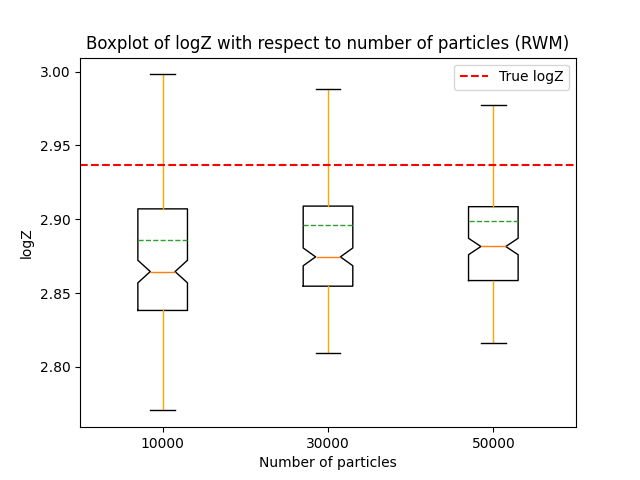
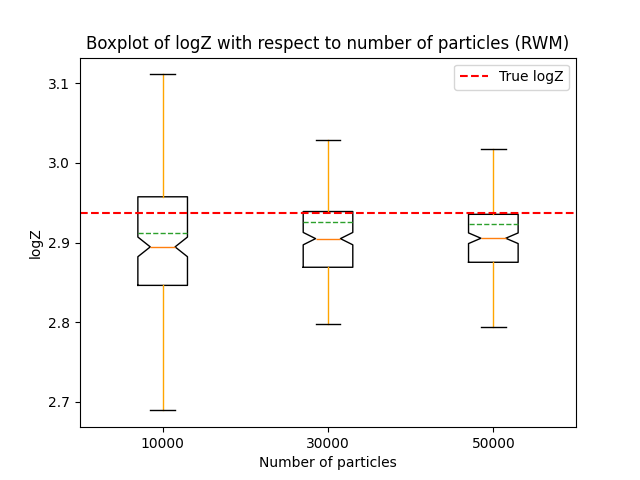
new test

diff --git a/notebooks/sequential_mc/smc_analysis.py b/notebooks/sequential_mc/smc_analysis.py
@@ -67,10 +67,11 @@ def smc_test(log_gamma_0, log_gamma_T, num_particles_arr, key, method, target):
     # plot boxplot of logZ with confidence interval and mean
     plt.figure()
     positions = np.arange(len(num_particles_arr))
+    diff = jnp.abs(data1["logZ"][-1] - (log_gamma_T._log_Z - log_gamma_0._log_Z))
     plt.boxplot(data1["logZ"], positions=positions, showmeans=True, meanline=True, notch=True, showfliers=False, whiskerprops=dict(color='orange'))
 
     # compare to logZ of funnel distribution
-    plt.axhline(y=log_gamma_T._log_Z - log_gamma_0._log_Z, color='r', linestyle='--', label='True logZ')
+    plt.axhline(y=log_gamma_T._log_Z - log_gamma_0._log_Z, color='r', linestyle='--', label=f'True logZ (difference = {diff:.2f})')
 
     plt.xticks(positions, num_particles_arr)
     plt.xlabel('Number of particles')
@@ -159,7 +160,7 @@ log_var_0 = jnp.log(sigma_0**2)
 # log_gamma_0 = IsotropicGauss(mu=mu_0, log_var=log_var_0)
 # ------------------ Randomly select params for 5 components of mixed gaussian --------------------------
 key, key1, key2, key3 = jr.split(key,4)
-K = 20
+K = 40
 mu = jax.random.normal(key1, shape=(K, dim))*10-10
 dist_sigma = jax.random.uniform(
     key2,
